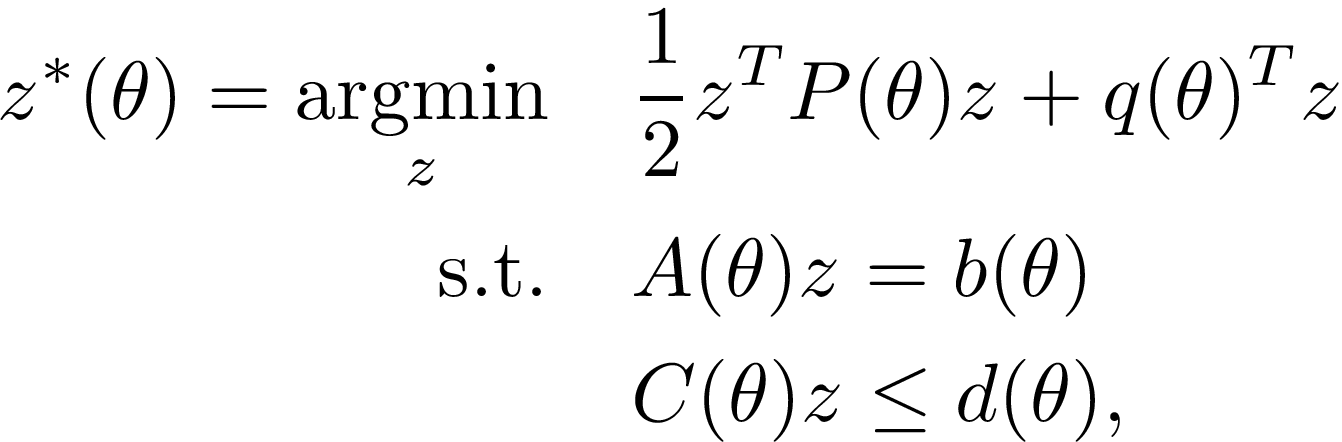
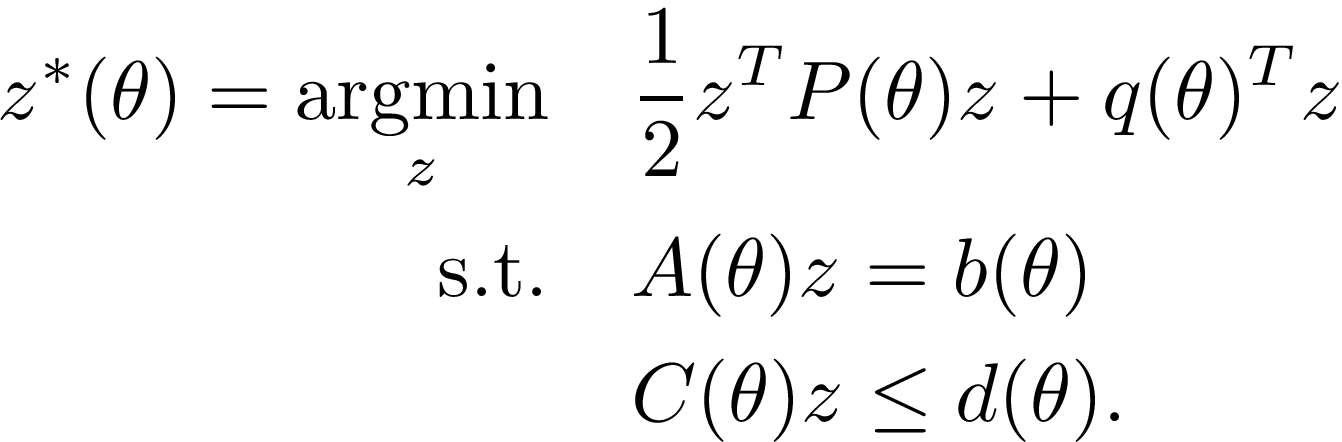
higher resolution figs

diff --git a/examples/example_qp.py b/examples/example_qp.py
@@ -5,8 +5,8 @@ import qpsolvers
 
 def qp_2d(qp_solver):
     # -----------------------------------------------------------------------------
-    #   minimize     (1/2) xᵀ P x + qᵀ x
-    #   subject to   C x ≤ d
+    #   minimize     (1/2) zᵀ P z + qᵀ z
+    #   subject to   C z ≤ d
     #
     #   P = 2 I₂
     #   q = [0, 0]
@@ -15,7 +15,7 @@ def qp_2d(qp_solver):
     #         [ 0 -1] ]
     #   d = [-1, 0, 0]
     #
-    #   x* = [1/2, 1/2]
+    #   z* = [1/2, 1/2]
     #   μ* = [1, 0, 0] (first constraint active)
     # -----------------------------------------------------------------------------
 
@@ -59,15 +59,15 @@ def qp_2d(qp_solver):
     )
     layer = dQP.dQP_layer(settings=settings)
 
-    x_star, lambda_star, mu_star, _, _ = layer(P.to_sparse_csc(), q, C.to_sparse_csc(), d)
+    z_star, lambda_star, mu_star, _, _ = layer(P.to_sparse_csc(), q, C.to_sparse_csc(), d)
 
     x_exact = np.array([0.5, 0.5])
     mu_exact = np.array([1.0, 0.0, 0.0])
 
     print("-"*80)
     print("dQP active set J:", layer.active)
-    print("dQP x*:", x_star.detach().numpy())
-    print("Analytical x*:", x_exact)
+    print("dQP z*:", z_star.detach().numpy())
+    print("Analytical z*:", x_exact)
     print("dQP μ* :", mu_star.detach().numpy())
     print("Analytical μ*:", mu_exact)
     print("-"*80)
@@ -75,16 +75,16 @@ def qp_2d(qp_solver):
     # -----------------------------------------------------------------------------
     # Backpropogate (differentiate) through some scalar-valued loss. 
     # A simple example is the optimal value function:
-    #       L(x*) = p* = (1/2) x*ᵀ P x* + qᵀ x*
+    #       L(z*) = p* = (1/2) z*ᵀ P z* + qᵀ z*
     #
     # In this case, the Envelope theorem https://en.wikipedia.org/wiki/Envelope_theorem yields
     # a simple expression, independent of dL/dx^*, to use as reference
-    #       ∇_P L = (1/2) x* x*ᵀ 
-    #       ∇_q L = x*
-    #       ∇_C L = μ* x*ᵀ  
+    #       ∇_P L = (1/2) z* z*ᵀ 
+    #       ∇_q L = z*
+    #       ∇_C L = μ* z*ᵀ  
     #       ∇_d L = -μ*
     # -----------------------------------------------------------------------------
-    L = 0.5 * x_star @ (torch.sparse.mm(P, x_star.unsqueeze(1)).squeeze(1)) + q @ x_star
+    L = 0.5 * z_star @ (torch.sparse.mm(P, z_star.unsqueeze(1)).squeeze(1)) + q @ z_star
     L.backward()
 
     print("dQP ∇_P L:", vals_P.grad.detach().numpy())
@@ -109,5 +109,3 @@ if __name__ == "__main__":
             qp_2d(solver)
         except Exception as e:
             print(e)
-
-    # qp_2d("gurobi") # requires license

diff --git a/README.md b/README.md
@@ -3,11 +3,33 @@
 <a href="https://cwmagoon.github.io/">Magoon<sup>\*</sup></a>, <a href="https://563925743.github.io/">Yang<sup>\*</sup></a>, <a href="https://noamaig.github.io/">Aigerman</a>, <a href="https://shaharkov.github.io/">Kovalsky</a><br>
 <i>NeurIPS (2025)</i>   
 
+
 <p align=center>
   <img src="https://github.com/cwmagoon/dQP/blob/main/images/figure_introduction_increasing_structure_light.png?raw=true" alt="teaser" width="300" />
   <span style="display:inline-block; width: 100px;"></span> <!-- Spacer element -->
   <img src="https://github.com/cwmagoon/dQP/blob/main/images/figure_introduction_geometry_ant_light.png?raw=true" alt="teaser" width="300"  />
 </p>
+
+- [Installation](#installation)
+- [Usage](#usage)
+- [Options](#options)
+- [Experiments](#development-setup-and-experiments)
+
+**dQP** is a modular framework for differentiating the solution to a quadratic programming problem (QP) with respect to its parameters, enabling the seamless integration of QPs into machine learning architectures and bilevel optimization. 
+**dQP** supports <u>over 15 state-of-the-art QP solvers</u> by attaching a custom PyTorch layer to the open-source QP interface [[qpsolvers]](https://github.com/qpsolvers/qpsolvers).
+It solves problems of the form,
+
+<p align="center">
+<img src="https://github.com/cwmagoon/dQP/blob/main/images/QP_formulation.png?raw=true" alt="QP" width="500"/>
+</p>
+
+The key mathematical structure we use to aid modularity is the special polyhedral geometry of a QP. 
+This is illustrated below, where a QP is <u>locally</u> equivalent to a purely equality constrained problem, <i>i.e.</i>, both their solutions and derivatives match.
+
+<p align="center">
+<img src="https://github.com/cwmagoon/dQP/blob/main/images/figure_methods_schematic_light.png?raw=true" alt="teaser" width="500"/>
+</p>
+
 
 ## Installation
     
@@ -16,20 +38,12 @@
 pip install libdqp
 ```
 
-Our [[PyPI package]](https://pypi.org/project/libdqp/) includes PyTorch, open-source python interfaces to various QP and linear solvers, and tools for sparsity. Some QP solvers such as Gurobi are commercial, but offer [[academic licenses]](https://www.gurobi.com/academia/academic-program-and-licenses/). 
-Experiment-specific packages are detailed in the experiment section.
+**dQP** is distributed via [[PyPI]](https://pypi.org/project/libdqp/) with solvers included. QP solvers like Gurobi are commercial but offer [[academic licenses]](https://www.gurobi.com/academia/academic-program-and-licenses/). 
 
-## Introduction
 
-dQP is a modular framework for differentiating the solution to a quadratic programming problem (QP) with respect to its parameters, enabling the seamless integration of QPs into machine learning architectures and bilevel optimization. 
-dQP supports <u>over 15 state-of-the-art QP solvers</u> by attaching a custom PyTorch layer to the open-source QP interface [[qpsolvers]](https://github.com/qpsolvers/qpsolvers).
-It solves problems of the form,
+## Usage
 
-<p align="center">
-<img src="https://github.com/cwmagoon/dQP/blob/main/images/QP_formulation.png?raw=true" alt="QP" width="500"/>
-</p>
-
-and is used as in the following example which uses QP solver [[OSQP]](https://github.com/osqp/osqp) and sparse symmetric indefinite linear solver [[QDLDL]](https://github.com/osqp/qdldl-python),
+The following example applies [[OSQP]](https://github.com/osqp/osqp) for the forward pass and sparse symmetric indefinite linear solver [[QDLDL]](https://github.com/osqp/qdldl-python) for the backward pass.
 
 ```python
 import torch
@@ -38,8 +52,8 @@ import numpy as np
 from dqp import dQP
 
 # -----------------------------------------------------------------------------
-#   minimize     (1/2) xᵀ P x + qᵀ x
-#   subject to   C x ≤ d
+#   minimize     (1/2) zᵀ P z + qᵀ z
+#   subject to   C z ≤ d
 #
 #   P = 2 I₂
 #   q = [0, 0]
@@ -48,7 +62,7 @@ from dqp import dQP
 #         [ 0 -1] ]
 #   d = [-1, 0, 0]
 #
-#   x* = [1/2, 1/2]
+#   z* = [1/2, 1/2]
 #   μ* = [1, 0, 0] (first constraint active)
 # -----------------------------------------------------------------------------
 
@@ -58,7 +72,8 @@ from dqp import dQP
 
 rows_P = torch.LongTensor([0, 1])
 cols_P = torch.LongTensor([0, 1])
-vals_P = torch.tensor([2.0, 2.0], dtype=torch.float64, requires_grad=True) # sparse matrix nonzero values are differentiable (0s assumed fixed)
+# sparse matrix nonzero values are differentiable (0s assumed fixed)
+vals_P = torch.tensor([2.0, 2.0], dtype=torch.float64, requires_grad=True) 
 P = torch.sparse_coo_tensor(
     torch.stack([rows_P, cols_P]),
     vals_P,
@@ -92,16 +107,16 @@ settings = dQP.build_settings(
 layer = dQP.dQP_layer(settings=settings)
 
 # Solve QP (forward pass)
-x_star, lambda_star, mu_star, _, _ = layer(
+z_star, lambda_star, mu_star, _, _ = layer(
     P.to_sparse_csc(), q, C.to_sparse_csc(), d
 )
 
 print("-"*80)
-x_exact = np.array([0.5, 0.5])
+z_exact = np.array([0.5, 0.5])
 mu_exact = np.array([1.0, 0.0, 0.0])
 print("dQP active set J:", layer.active)
-print("dQP x*:", x_star.detach().numpy())
-print("Analytical x*:", x_exact)
+print("dQP z*:", z_star.detach().numpy())
+print("Analytical z*:", z_exact)
 print("dQP μ* :", mu_star.detach().numpy())
 print("Analytical μ*:", mu_exact)
 print("-"*80)
@@ -109,30 +124,31 @@ print("-"*80)
 # -----------------------------------------------------------------------------
 # Backpropogate (differentiate) through some scalar-valued loss. 
 # A simple example is the optimal value function:
-#       L(x*) = p* = (1/2) x*ᵀ P x* + qᵀ x*
+#       L(z*) = p* = (1/2) z*ᵀ P z* + qᵀ z*
 #
-# In this case, the Envelope theorem https://en.wikipedia.org/wiki/Envelope_theorem yields
-# a simple expression, independent of dL/dx^*, to use as reference
-#       ∇_P L = (1/2) x* x*ᵀ 
-#       ∇_q L = x*
-#       ∇_C L = μ* x*ᵀ  
+# In this case, the Envelope theorem https://en.wikipedia.org/wiki/Envelope_theorem 
+# yields a simple expression, independent of dL/dx^*, to use as reference
+#       ∇_P L = (1/2) z* z*ᵀ 
+#       ∇_q L = z*
+#       ∇_C L = μ* z*ᵀ  
 #       ∇_d L = -μ*
  # -----------------------------------------------------------------------------
 
 # Evaluate differentiable loss and backpropogate using torch autograd
-L = 0.5 * x_star @ (torch.sparse.mm(P, x_star.unsqueeze(1)).squeeze(1)) + q @ x_star
+L = 0.5 * z_star @ (torch.sparse.mm(P, z_star.unsqueeze(1)).squeeze(1)) + q @ z_star
 L.backward()
 
 print("-"*80)
-print("dQP ∇_P L:", vals_P.grad.detach().numpy()) # gradient projected onto subspace of nonzero values
-grad_P_exact = 0.5 * np.outer(x_exact, x_exact)
+# gradient projected onto subspace of nonzero values
+print("dQP ∇_P L:", vals_P.grad.detach().numpy()) 
+grad_P_exact = 0.5 * np.outer(z_exact, z_exact)
 print("Analytical ∇_P L:", grad_P_exact[rows_P, cols_P]) 
 
 print("dQP ∇_q L:     ", q.grad.detach().numpy())
-print("Analytical ∇_q L:     ", x_exact)
+print("Analytical ∇_q L:     ", z_exact)
 
 print("dQP ∇_C L:", vals_C.grad.detach().numpy())
-grad_C_exact = np.outer(mu_exact, x_exact)
+grad_C_exact = np.outer(mu_exact, z_exact)
 print("Analytical ∇_C L:", grad_C_exact[rows_C, cols_C])
 
 print("dQP ∇_d L:     ", d.grad.detach().numpy())
@@ -140,16 +156,9 @@ print("Analytical ∇_d L:     ", -mu_exact)
 print("-"*80)
 ```
 
-The key mathematical structure we use to aid modularity is the special polyhedral geometry of a QP. 
-This is illustrated below, where a QP is <u>locally</u> equivalent to a purely equality constrained problem, <i>i.e.</i>, both their solutions and derivatives match.
-
-<p align="center">
-<img src="https://github.com/cwmagoon/dQP/blob/main/images/figure_methods_schematic_light.png?raw=true" alt="teaser" width="500"/>
-</p>
-
 ## Options
 
-While dQP described in the snippet above suppresses default options, dQP has the following tunable settings.
+**dQP** supports a wide range of tunable settings.
 
 |          Option          |                                                  Meaning                                                   |
 |:------------------------:|:----------------------------------------------------------------------------------------------------------:|
